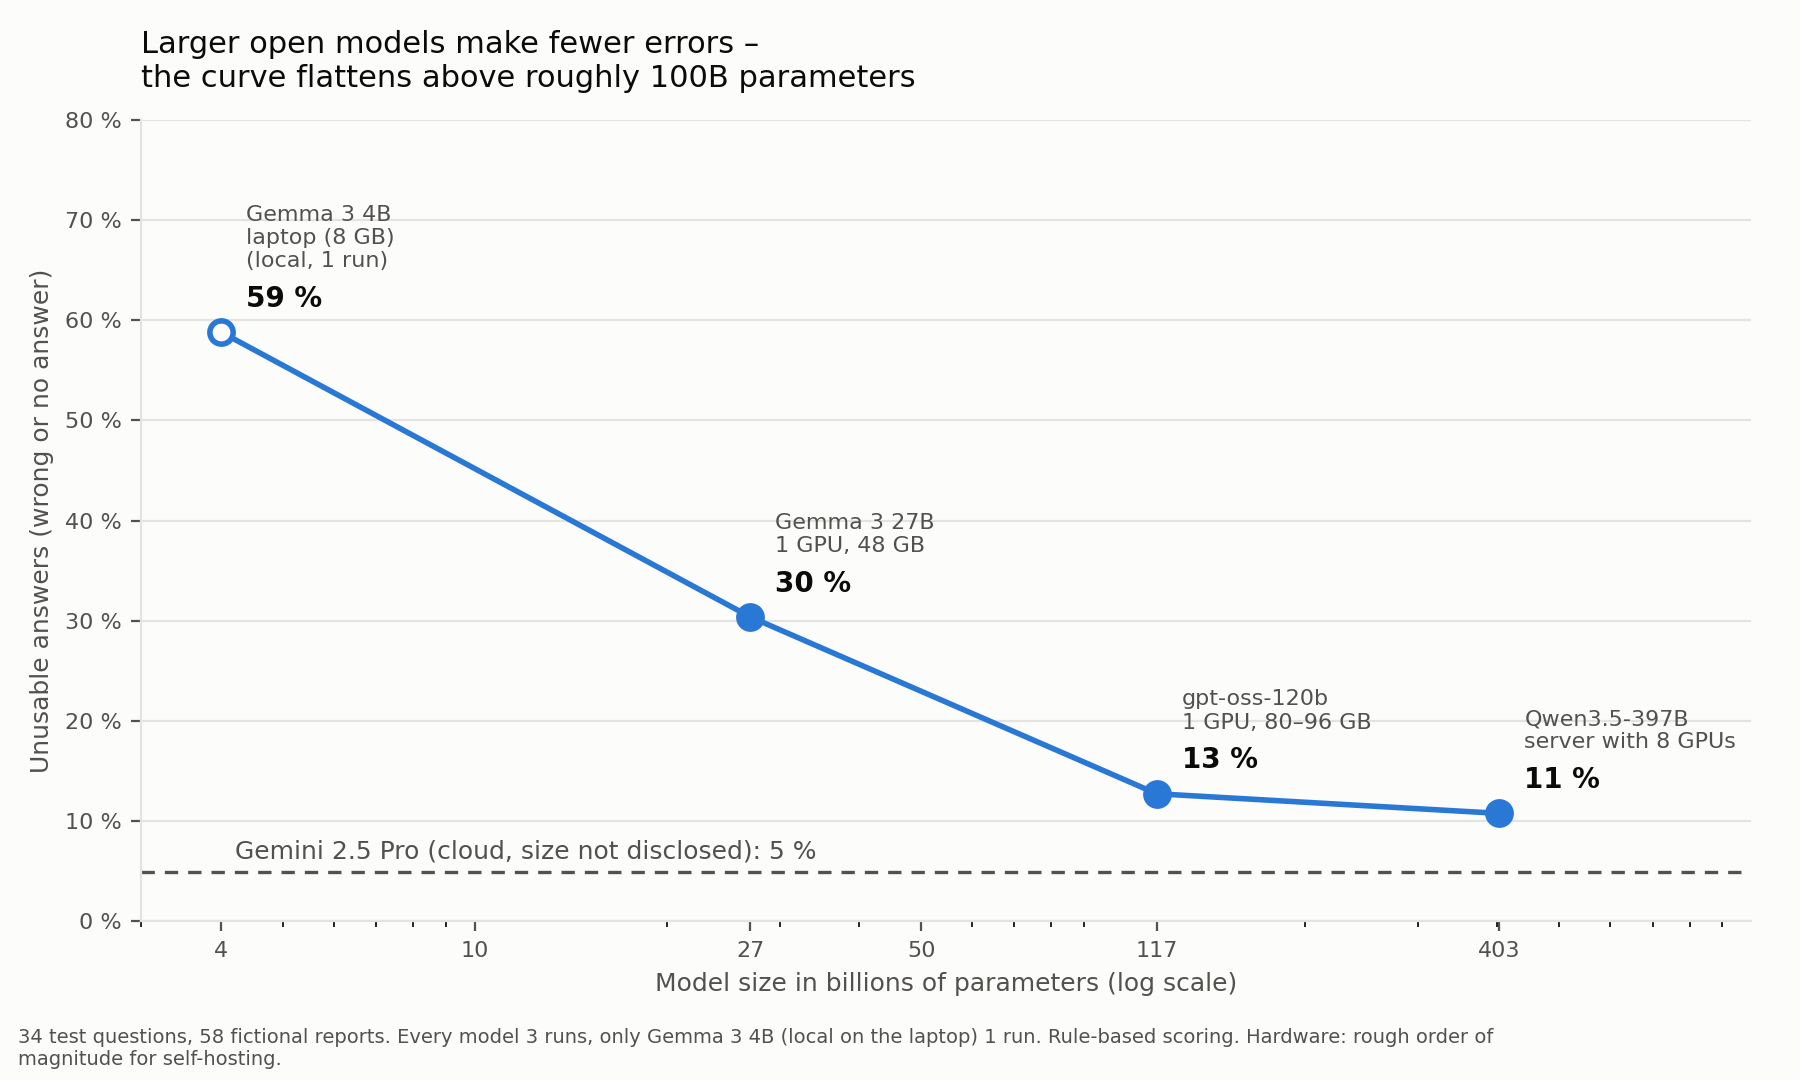
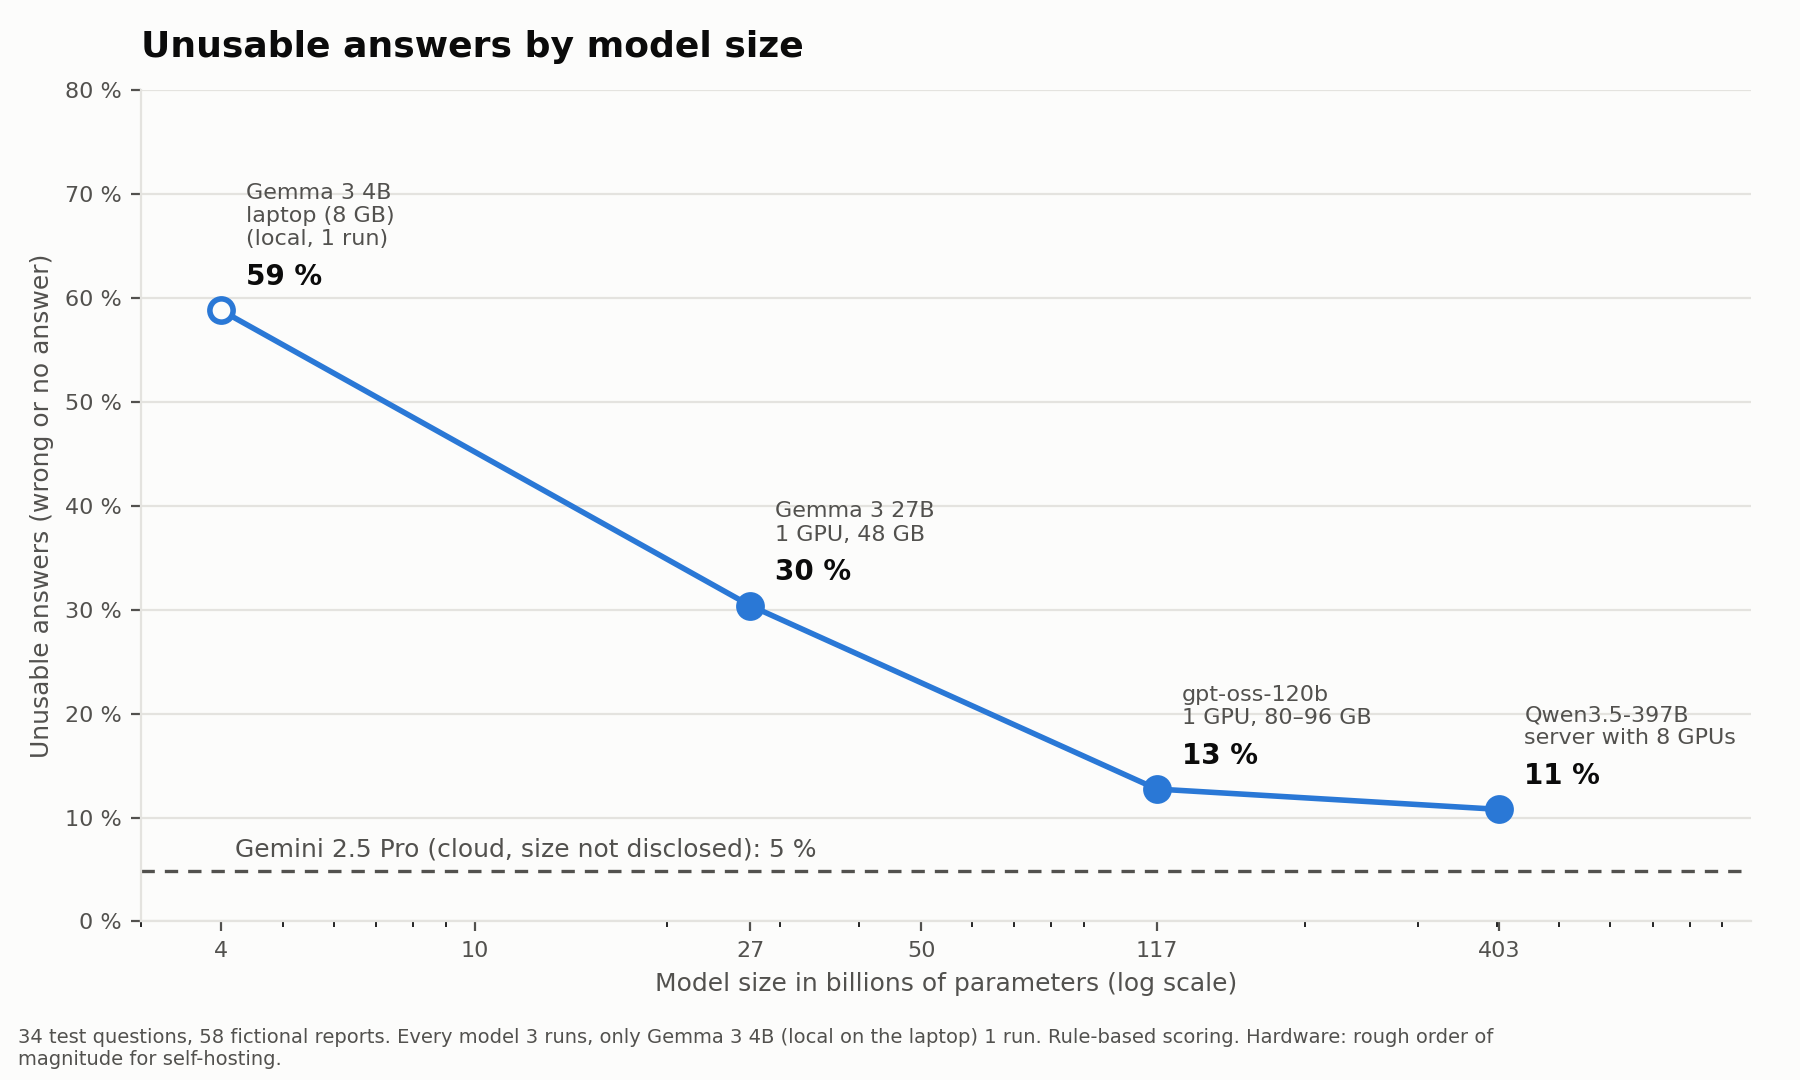
Use plain heading as chart title

Changed region(s): [[0.0, 0.1528, 0.9644, 0.7944], [0.0311, 0.0306, 0.5289, 0.1222], [0.0311, 0.1528, 0.0622, 0.2139]]

diff --git a/scripts/grafik_modellgroesse.py b/scripts/grafik_modellgroesse.py
@@ -26,11 +26,11 @@ RUNS = [  # (Datei, Parameter in Mrd., Name, Hardware DE, Hardware EN, lokal)
 GEMINI = "google_gemini-2.5-pro_2026-11-14_v19"
 
 TEXT = {
-    "de": {"title": "Größere offene Modelle machen weniger Fehler –\nab etwa 100 Mrd. Parametern flacht die Kurve ab",
+    "de": {"title": "Unbrauchbare Antworten nach Modellgröße",
            "y": "Unbrauchbare Antworten (falsch oder ohne Antwort)", "x": "Modellgröße in Milliarden Parametern (logarithmisch)",
            "gemini": "Gemini 2.5 Pro (Cloud, Größe nicht veröffentlicht)", "local": "lokal, 1 Durchlauf",
            "note": "34 Testfragen, 58 fiktive Berichte. Jedes Modell 3 Durchläufe, nur Gemma 3 4B (lokal auf dem Laptop) 1 Durchlauf. Bewertung regelbasiert. Hardware: grobe Größenordnung für Eigenbetrieb."},
-    "en": {"title": "Larger open models make fewer errors –\nthe curve flattens above roughly 100B parameters",
+    "en": {"title": "Unusable answers by model size",
            "y": "Unusable answers (wrong or no answer)", "x": "Model size in billions of parameters (log scale)",
            "gemini": "Gemini 2.5 Pro (cloud, size not disclosed)", "local": "local, 1 run",
            "note": "34 test questions, 58 fictional reports. Every model 3 runs, only Gemma 3 4B (local on the laptop) 1 run. Rule-based scoring. Hardware: rough order of magnitude for self-hosting."},
@@ -73,7 +73,7 @@ for lang, t in TEXT.items():
     ax.yaxis.set_major_formatter(FuncFormatter(lambda v, _: f"{v:.0f} %"))
     ax.set_xlabel(t["x"], color=INK2, fontsize=9)
     ax.set_ylabel(t["y"], color=INK2, fontsize=9)
-    ax.set_title(t["title"], color=INK, fontsize=11, loc="left", pad=12)
+    ax.set_title(t["title"], color=INK, fontsize=13, fontweight="bold", loc="left", pad=12)
     ax.grid(axis="y", color=GRID, linewidth=0.8)
     for side in ("top", "right"):
         ax.spines[side].set_visible(False)
